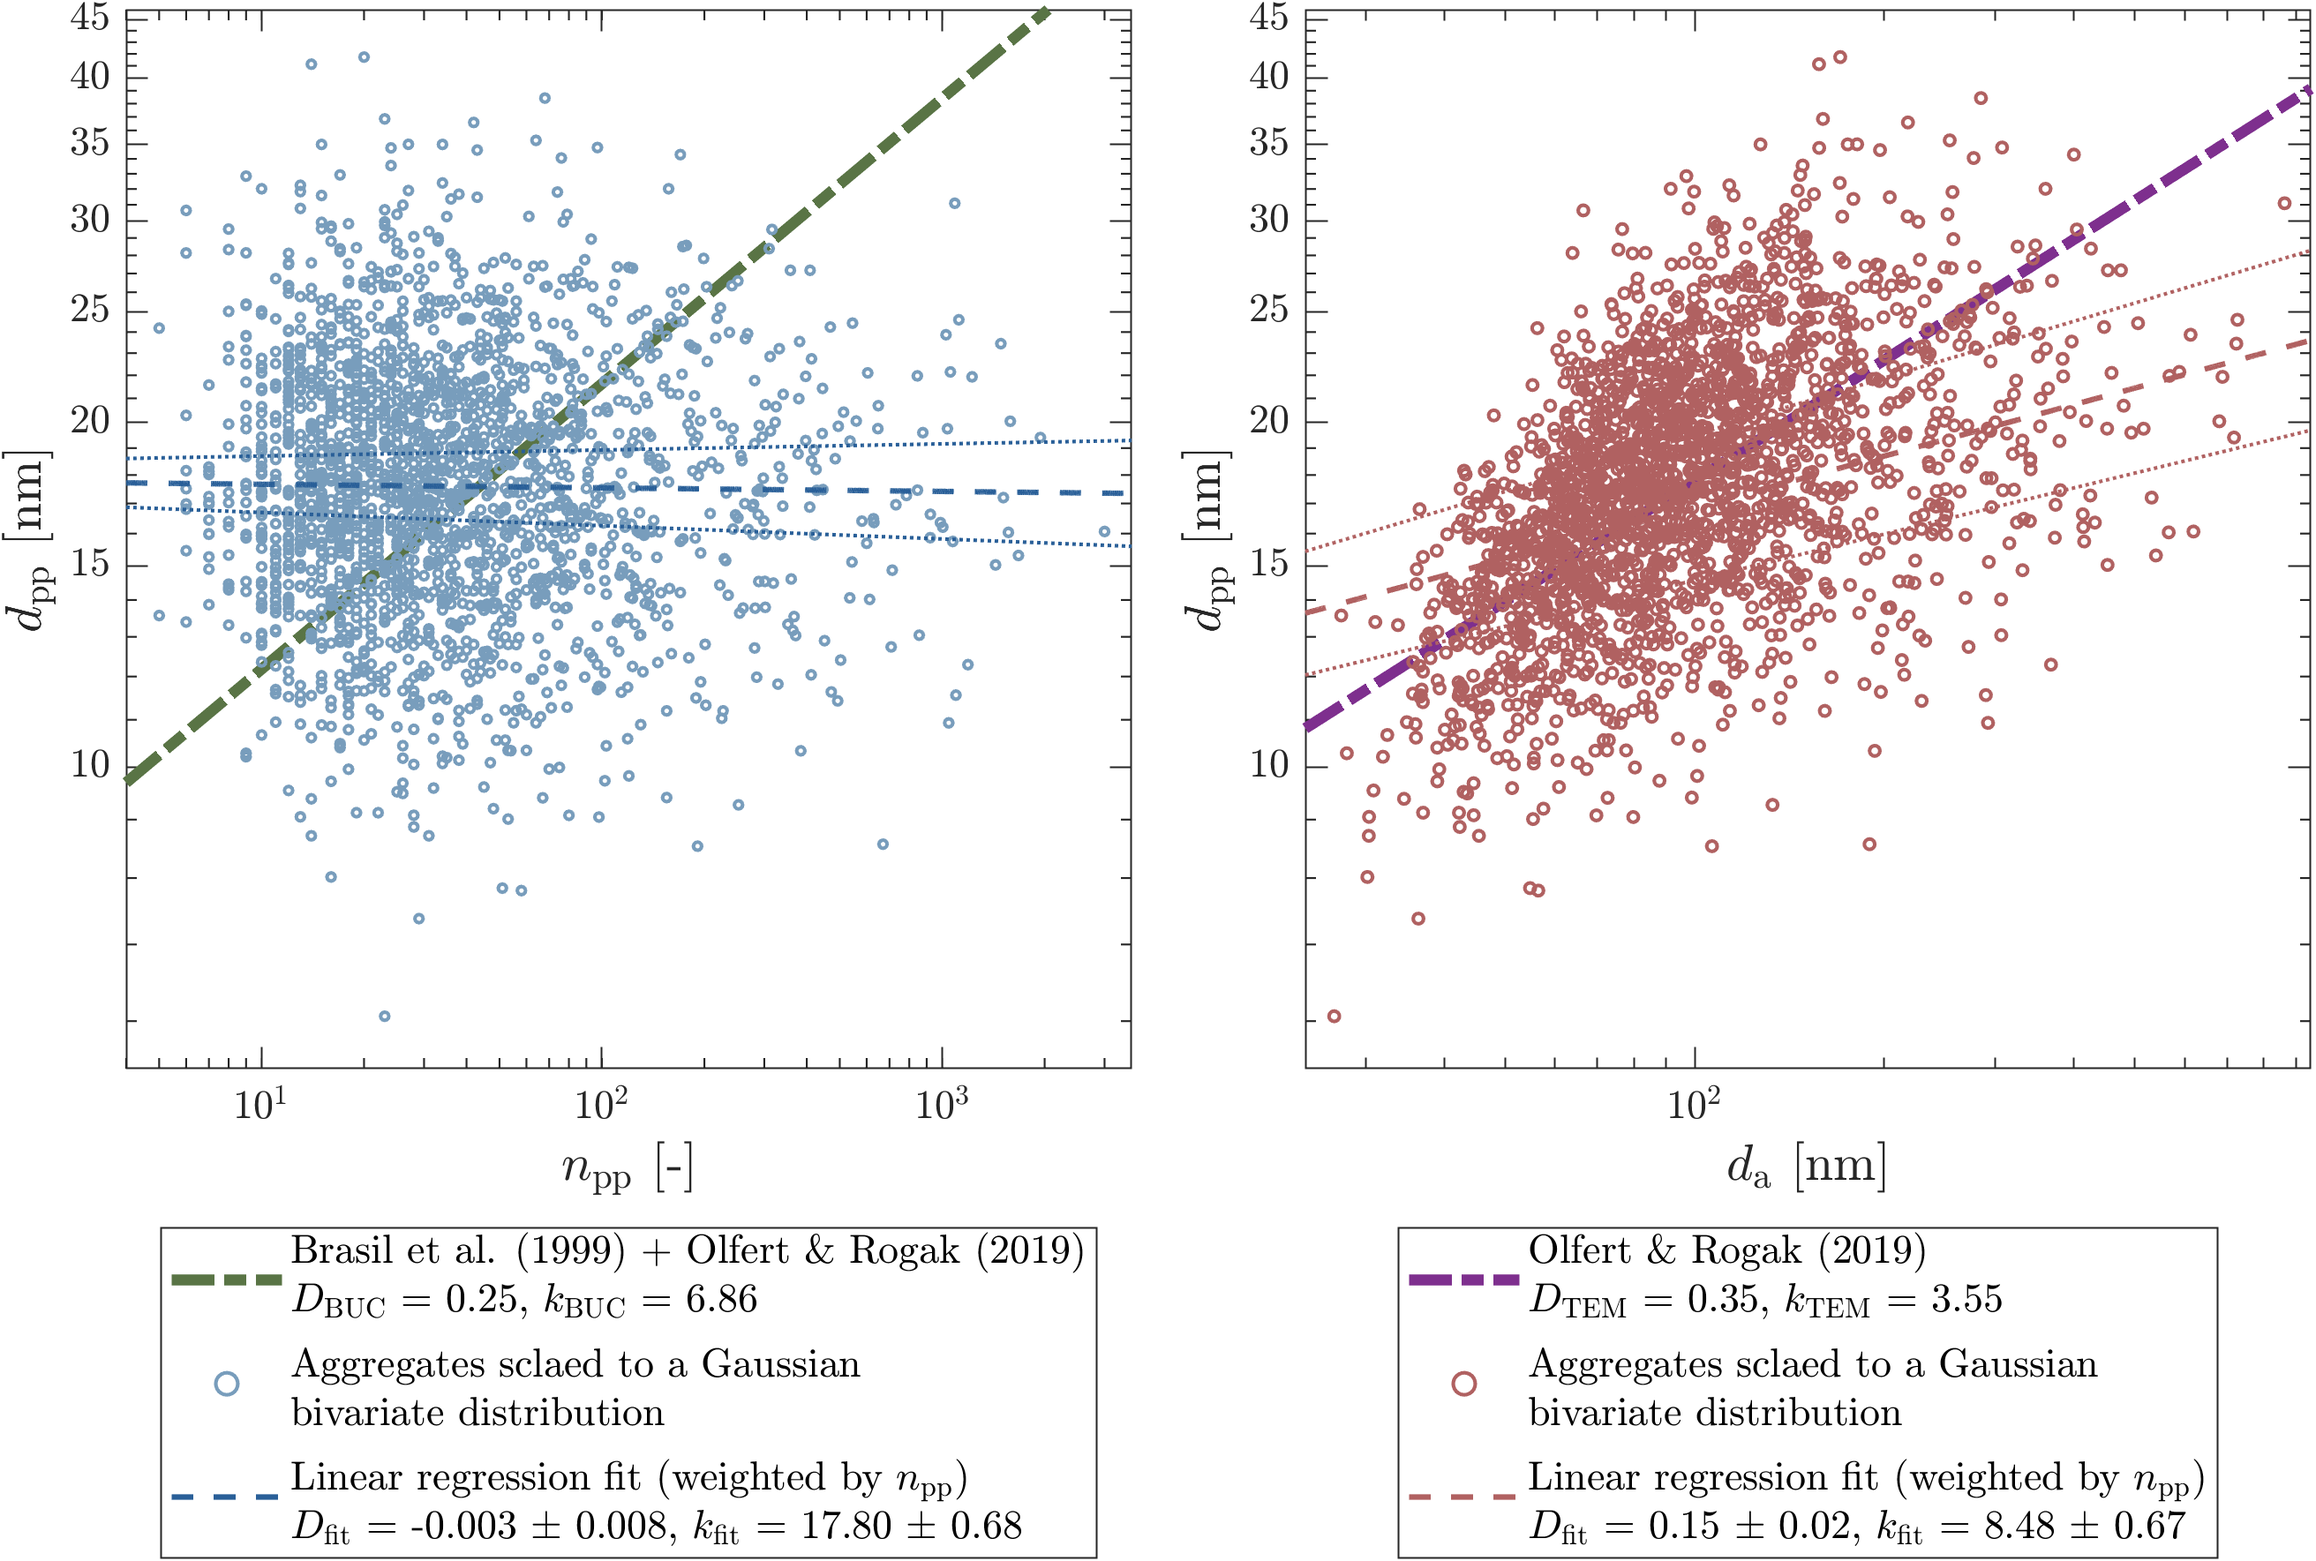
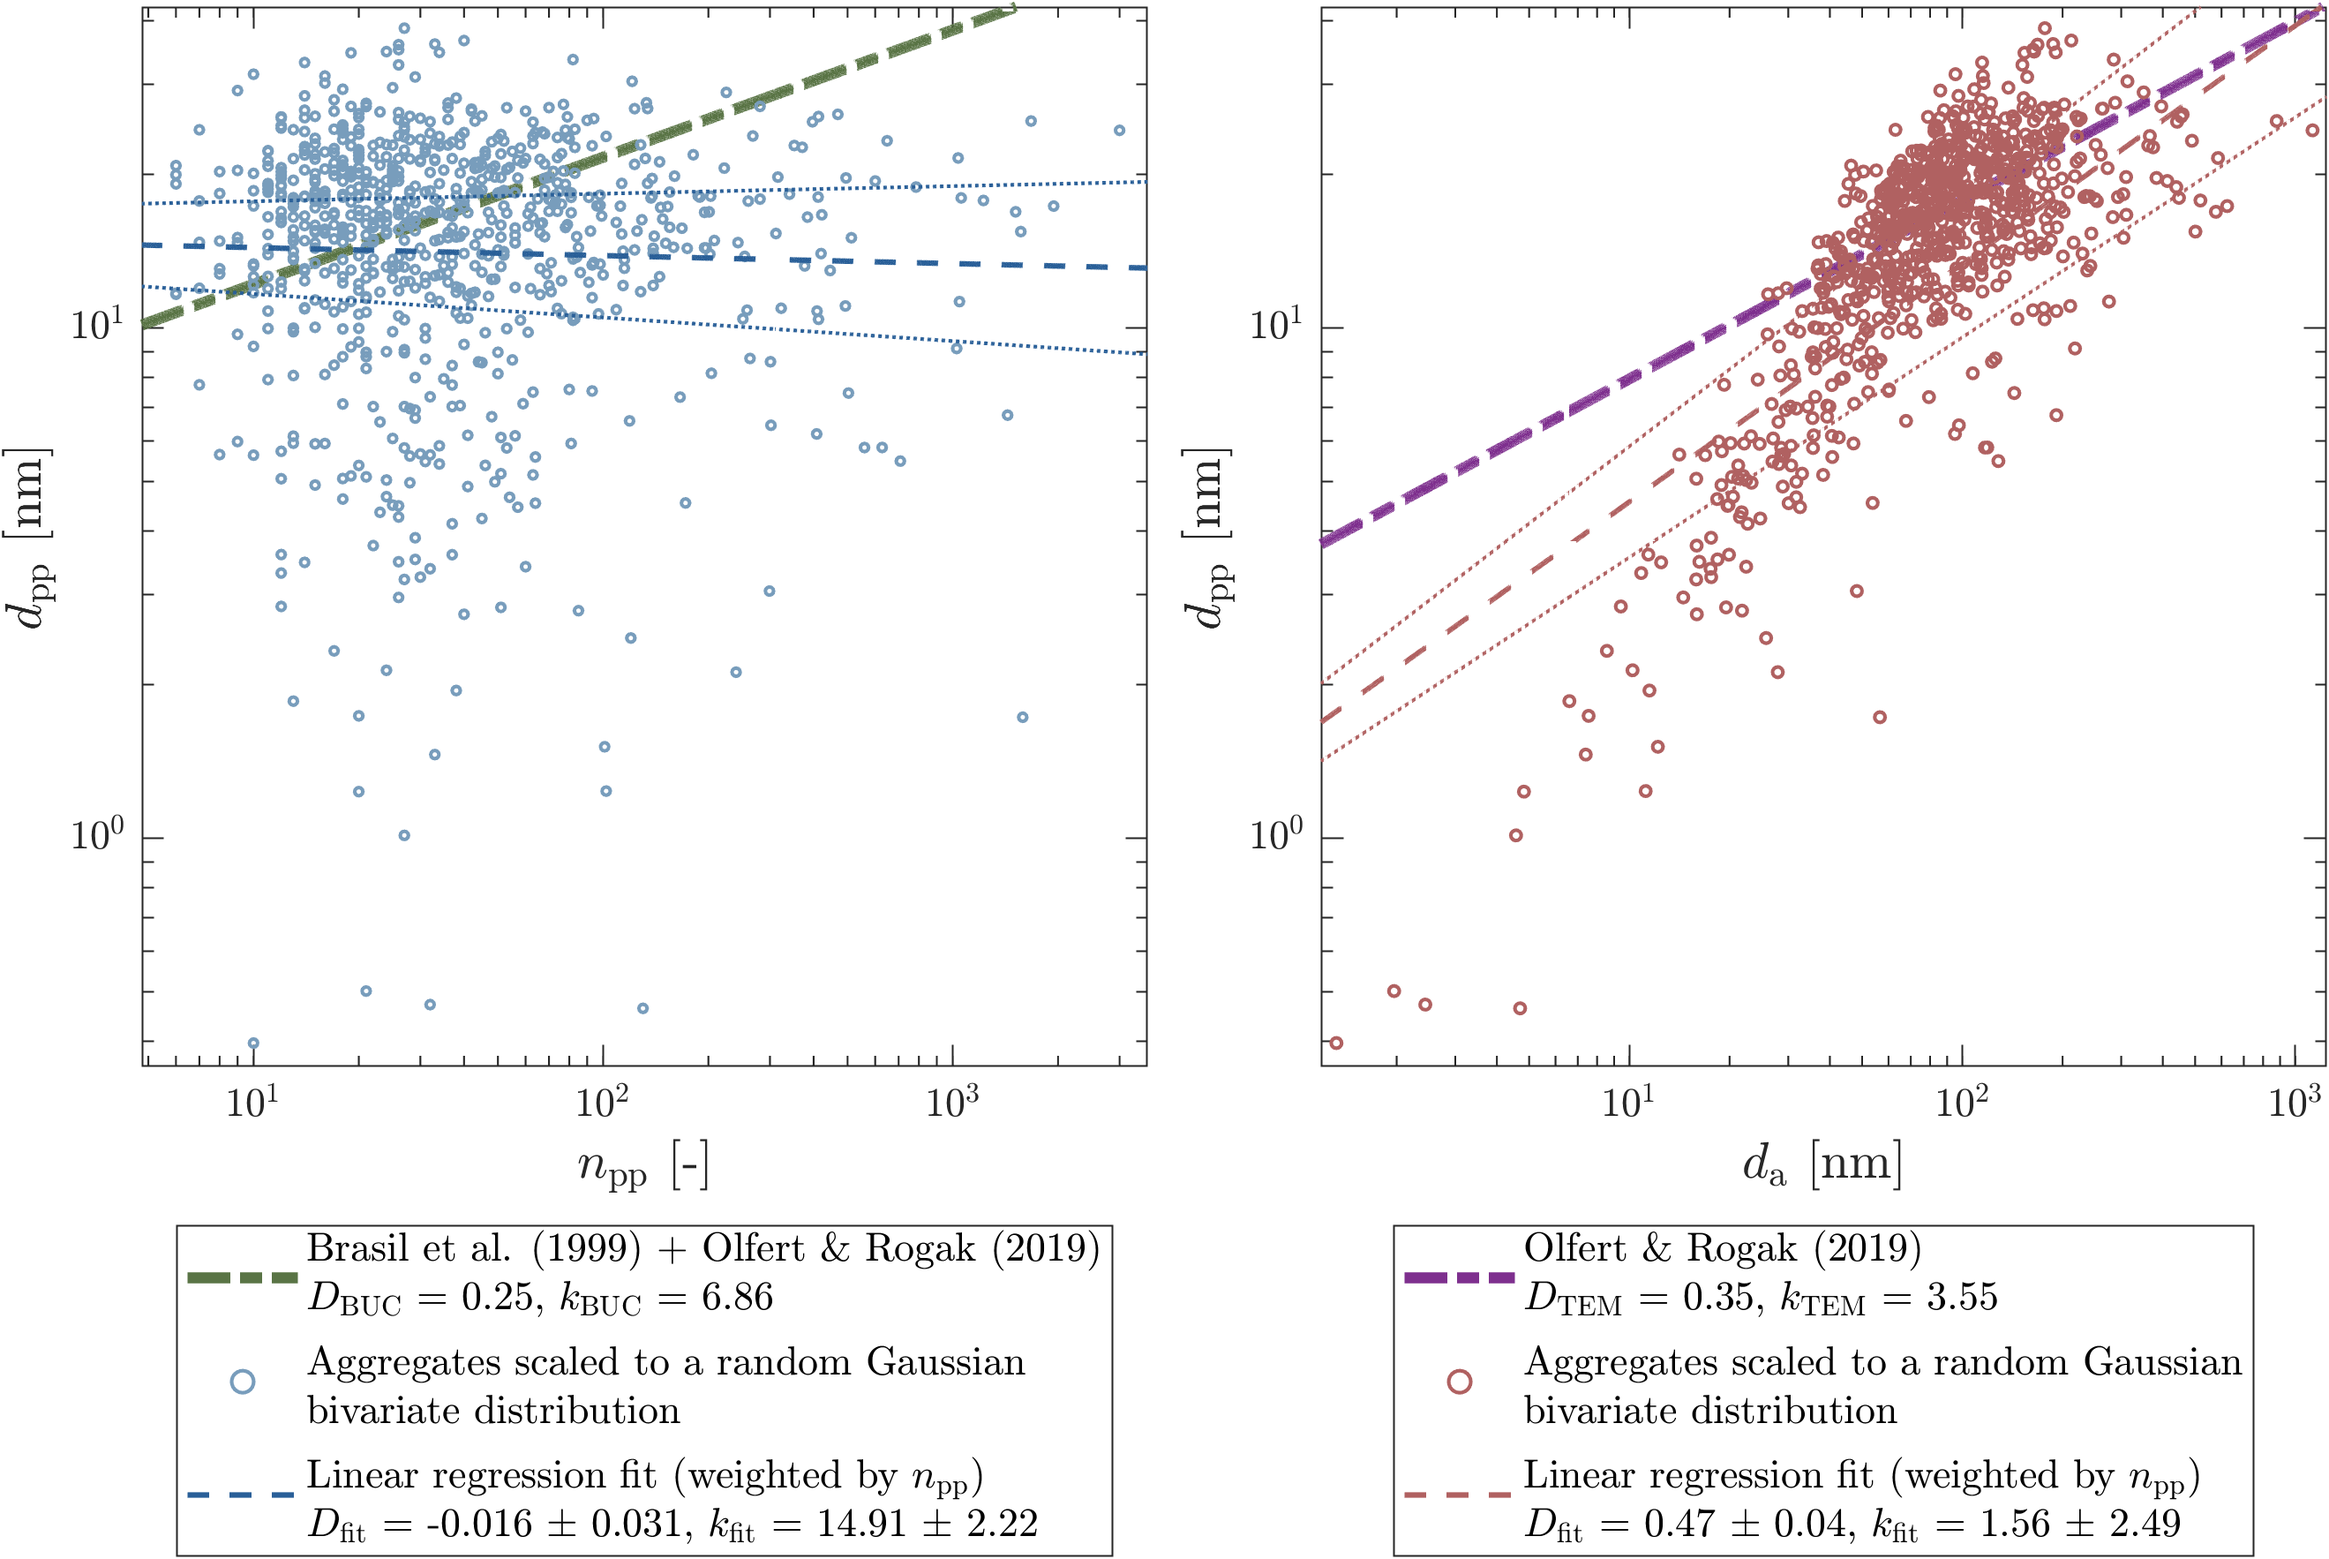
debugging scatter function-not resolved yet

diff --git a/main_scatter_v4.m b/main_scatter_v4.m
@@ -459,21 +459,45 @@ pars_out.da = cat(1, pars_raw.da(ind_rand));
 chk_agg = true(n_agg_raw, 1); % whether an aggregate is previously not...
     % ...selected (i.e. still available)
 
+ii0 = cell(n_scat,1);
+ii = zeros(n_scat,1);
+n_ii = zeros(n_scat,1);
+rpp_scat = zeros(n_scat,1);
+
+iii = [];
+
+ind_agg_raw = 1 : n_agg_raw;
+
 % assign scatter seeds to the aggregates
 for i = 1 : n_scat
 
     % find points with the same number of primaries as selected aggregate
-    ii = find(abs((dpp_scat(i) ./ da_scat(i)) -...
-        (pars_out.dpp_g(chk_agg,1) ./ pars_out.da(chk_agg))) ==...
+    ii0{i} = find(abs((dpp_scat(i) ./ da_scat(i)) -...
+        (pars_out.dpp_g(:,1) ./ pars_out.da)) ==...
         min(abs((dpp_scat(i) ./ da_scat(i)) -...
-        (pars_out.dpp_g(chk_agg,1) ./ pars_out.da(chk_agg)))), 1);    
+        (pars_out.dpp_g(:,1) ./ pars_out.da))));
     
+    ii_finder = ismember(ii0{i}, ind_agg_raw(chk_agg));
+    ii0{i} = ii0{i}(ii_finder);
+    ii(i) = ii0{i}(1); 
+
+    n_ii(i) = length(ii(i));
+
+    if length(abs((dpp_scat(i) ./ da_scat(i)) -...
+        (pars_out.dpp_g(chk_agg,1) ./ pars_out.da(chk_agg)))) ~=...
+        (n_agg_raw - i - size(iii,1) + 1)
+
+            iii = [iii; i, ii(i)];
+
+    end
+
     % scale aggregate to the selected seed
-    rpp_scat = (1e-9) * dpp_scat(i) / pars_raw.dpp_g(ind_rand(ii),1);
-    pars_out.pp{ii}(:,2:5) = repmat(rpp_scat, pars_out.n(ii), 4) .*...
-        pars_out.pp{ii}(:,2:5);
+    rpp_scat(i) = (1e-9) * dpp_scat(i) / pars_out.dpp_g(ii(i),1);
+    pars_out.pp{ii(i)}(:,2:5) = repmat(rpp_scat(i), pars_out.n(ii(i)), 4) .*...
+        pars_out.pp{ii(i)}(:,2:5);
     
-    chk_agg(ii) = false; % won't be using this seed another time
+    chk_agg(ii(i)) = false; % won't be using this seed another time
+
     
 end
 
